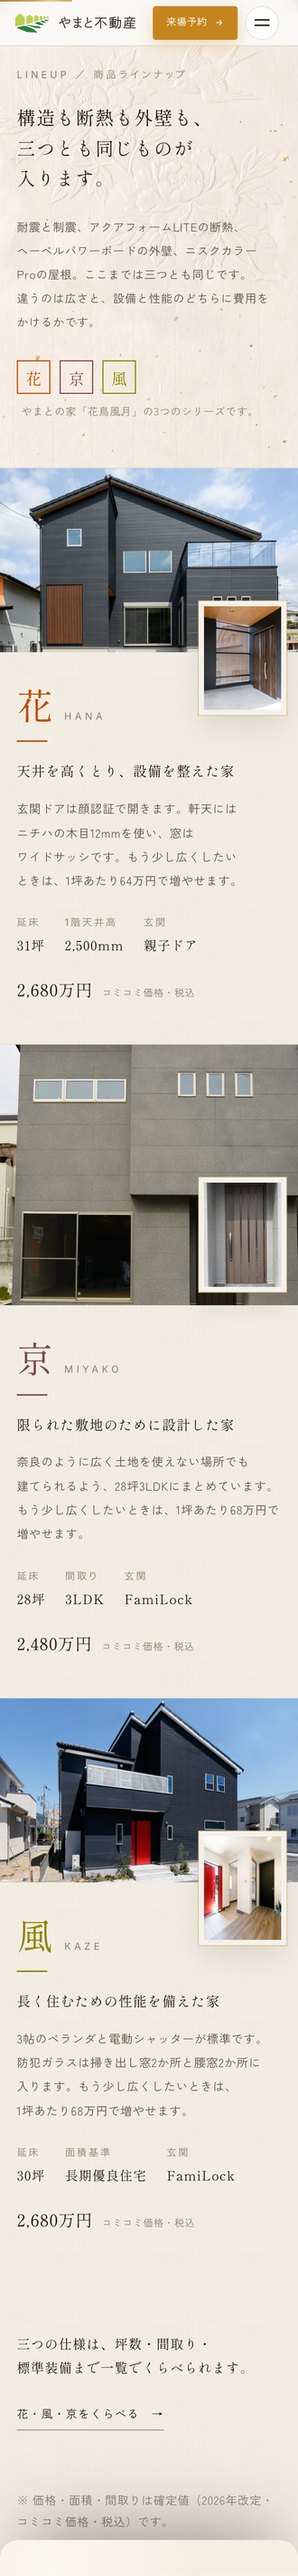
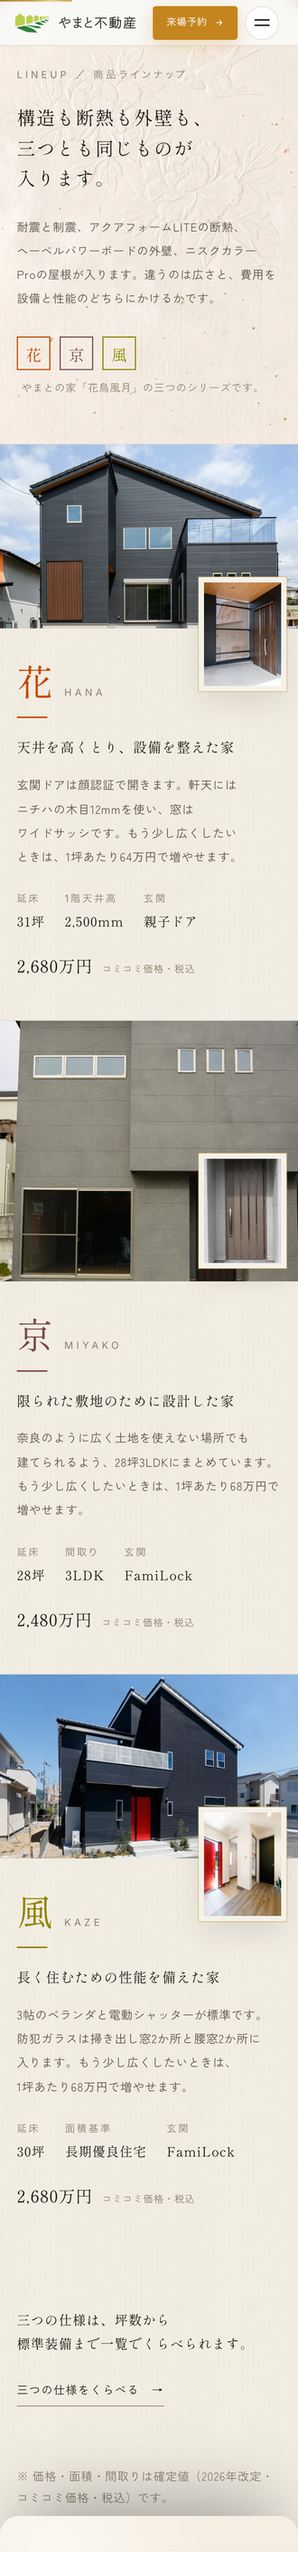
lineup: natural-japanese/textlint で日本語を検査し、実質4件を修正
textlint 8件のうち5件は却下した。
・「構造も断熱も外壁も」の助詞連続 → 列挙の「も」であり混乱を招く重複ではない
・一行ラベル3つの無句点 → プラン名に付く機能的ラベル（グレード表記と同種）で本文ではない
・「三つ」→「3つ」 → 技術文書の規約。住宅ブランドの明朝の地の文には当てない
  （company.html も既に「三つ」×4）

機械が見ていなかった実質4件を修正:
1. リードの体言止め（「〜Proの屋根。」）→ 見出しの「入ります」を受ける完全文へ。
   あわせて見出しと重複していた「ここまでは三つとも同じです」を削除
2. 同一セクション内の表記ゆれ（三つ／3つが3行違いで混在）→「三つ」に統一
3. 中黒の3連「坪数・間取り・標準装備」→「坪数から標準装備まで」に開く（規約は2つまで）
4. CTAの並び「花・風・京」が本文の並び「花→京→風」と衝突 →「三つの仕様をくらべる」へ

残した判断:
・3プランの本文が全部「もう少し広くしたいときは、1坪あたり◯万円で増やせます。」で終わる。
  唯一横に比べられる数字なので意図的な並行として残す
・注記の中黒3連（価格・面積・間取り）は既存の承認済み注記の体裁として残す

mobile-verify: #lineup 由来の FAIL 0（残72件は既存の iju/flow/faq/lots）。

diff --git a/index.html b/index.html
@@ -1458,12 +1458,12 @@
     <div class="lu-op__in">
       <span class="lu-eyebrow" data-rise style="--d:.05">Lineup ／ 商品ラインナップ</span>
       <h2 class="lu-h" data-rise style="--d:.14"><span>構造も断熱も外壁も、</span><span>三つとも同じものが</span><span>入ります。</span></h2>
-      <p class="lu-lead" data-rise style="--d:.26">耐震と制震、アクアフォームLITEの断熱、ヘーベルパワーボードの外壁、ニスクカラーProの屋根。ここまでは三つとも同じです。違うのは広さと、設備と性能のどちらに費用をかけるかです。</p>
+      <p class="lu-lead" data-rise style="--d:.26">耐震と制震、アクアフォームLITEの断熱、ヘーベルパワーボードの外壁、ニスクカラーProの屋根が入ります。違うのは広さと、費用を設備と性能のどちらにかけるかです。</p>
       <div class="lu-seals" data-rise style="--d:.38">
         <span class="lu-seal lu-seal--hana">花</span>
         <span class="lu-seal lu-seal--kyo">京</span>
         <span class="lu-seal lu-seal--kaze">風</span>
-        <span class="lu-seals__note">やまとの家「花鳥風月」の3つのシリーズです。</span>
+        <span class="lu-seals__note">やまとの家「花鳥風月」の三つのシリーズです。</span>
       </div>
     </div>
   </div>
@@ -1524,8 +1524,8 @@
 
   <div class="lu-cl">
     <div class="lu-cl__in">
-      <p class="lu-cl__t">三つの仕様は、坪数・間取り・標準装備まで一覧でくらべられます。</p>
-      <a class="lu-cl__a" href="madori.html#plans">花・風・京をくらべる　→</a>
+      <p class="lu-cl__t">三つの仕様は、坪数から標準装備まで一覧でくらべられます。</p>
+      <a class="lu-cl__a" href="madori.html#plans">三つの仕様をくらべる　→</a>
     </div>
   </div>
   <p class="lu-foot">※ 価格・面積・間取りは確定値（2026年改定・コミコミ価格・税込）です。</p>
